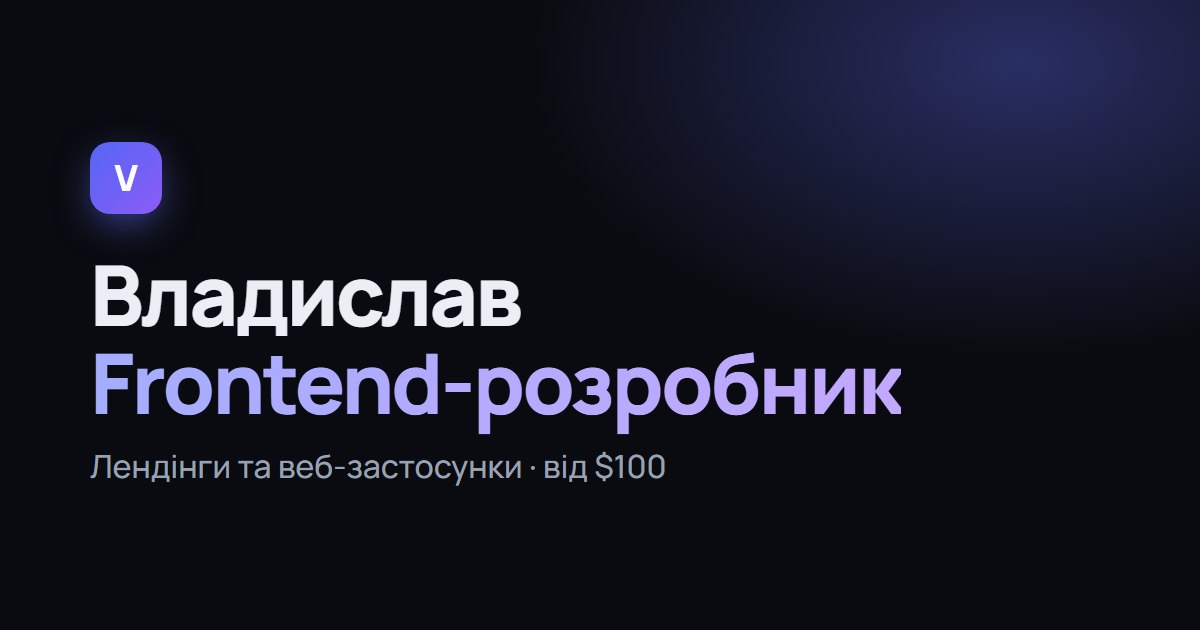
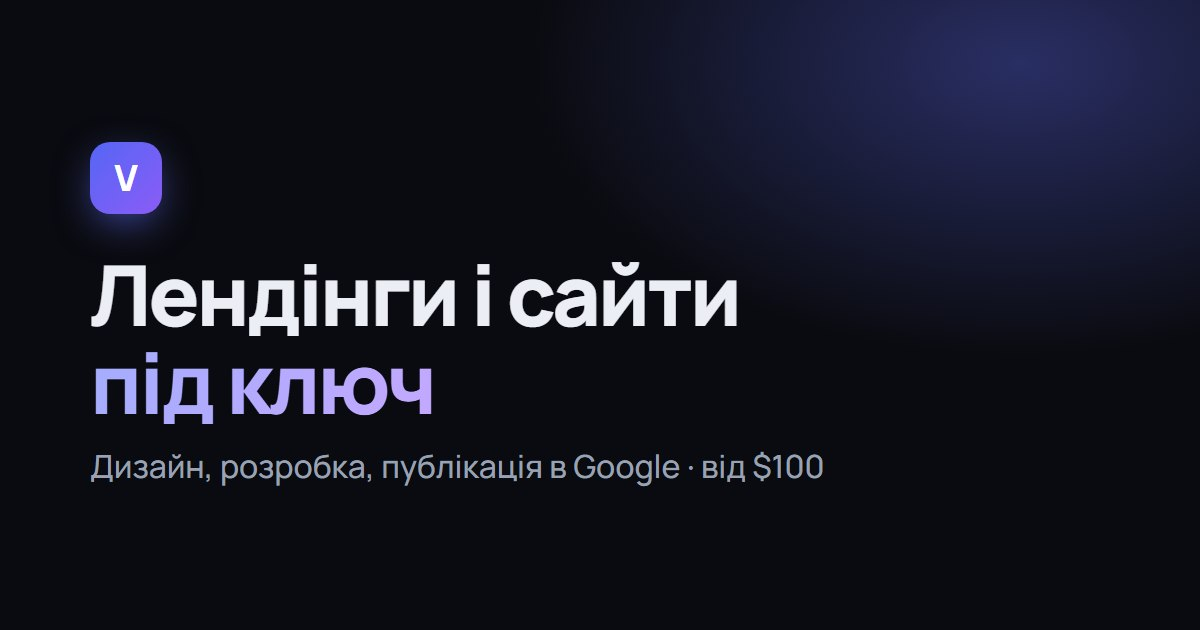
Replace name-based title with service-focused title and OG image

Changed region(s): [[0.0617, 0.4222, 0.7708, 0.6937], [0.0617, 0.7238, 0.7092, 0.7841]]

diff --git a/index.html b/index.html
@@ -3,8 +3,8 @@
 <head>
   <meta charset="utf-8">
   <meta name="viewport" content="width=device-width, initial-scale=1, viewport-fit=cover">
-  <title>Владислав — frontend-розробник | Лендінги та веб-застосунки</title>
-  <meta name="description" content="Владислав — frontend-розробник. Створюю швидкі сучасні лендінги та веб-застосунки: дизайн, верстка, HTTPS, Google Search Console і базове SEO. Лендінг під ключ від $100.">
+  <title>Розробка лендінгів і сайтів під ключ від $100</title>
+  <meta name="description" content="Створюю швидкі сучасні лендінги та веб-застосунки: дизайн, верстка, HTTPS, Google Search Console і базове SEO. Лендінг під ключ від $100, за 3–5 днів.">
   <meta name="theme-color" content="#0a0b10">
   <meta name="color-scheme" content="dark light">
 
@@ -15,7 +15,7 @@
   <meta property="og:url" content="https://mazurik4.github.io/portfolio/">
   <meta property="og:site_name" content="Vladyslav">
   <meta property="og:locale" content="uk_UA">
-  <meta property="og:title" content="Владислав — frontend-розробник">
+  <meta property="og:title" content="Розробка лендінгів і сайтів під ключ від $100">
   <meta property="og:description" content="Швидкі сучасні лендінги та веб-застосунки: від ідеї до публікації в Google. Лендінг під ключ від $100.">
   <meta property="og:image" content="https://mazurik4.github.io/portfolio/assets/img/og-image.jpg">
   <meta property="og:image:width" content="1200">

diff --git a/resume/og.html b/resume/og.html
@@ -9,4 +9,4 @@
   h1 span{background:linear-gradient(120deg,#a3adff,#c4a8ff);-webkit-background-clip:text;color:transparent}
   p{font-size:32px;color:#9aa1b3;margin:0;font-weight:500}
 </style></head>
-<body><div class="m">V</div><h1>Владислав<br><span>Frontend-розробник</span></h1><p>Лендінги та веб-застосунки · від $100</p></body></html>
+<body><div class="m">V</div><h1>Лендінги і сайти<br><span>під ключ</span></h1><p>Дизайн, розробка, публікація в Google · від $100</p></body></html>
